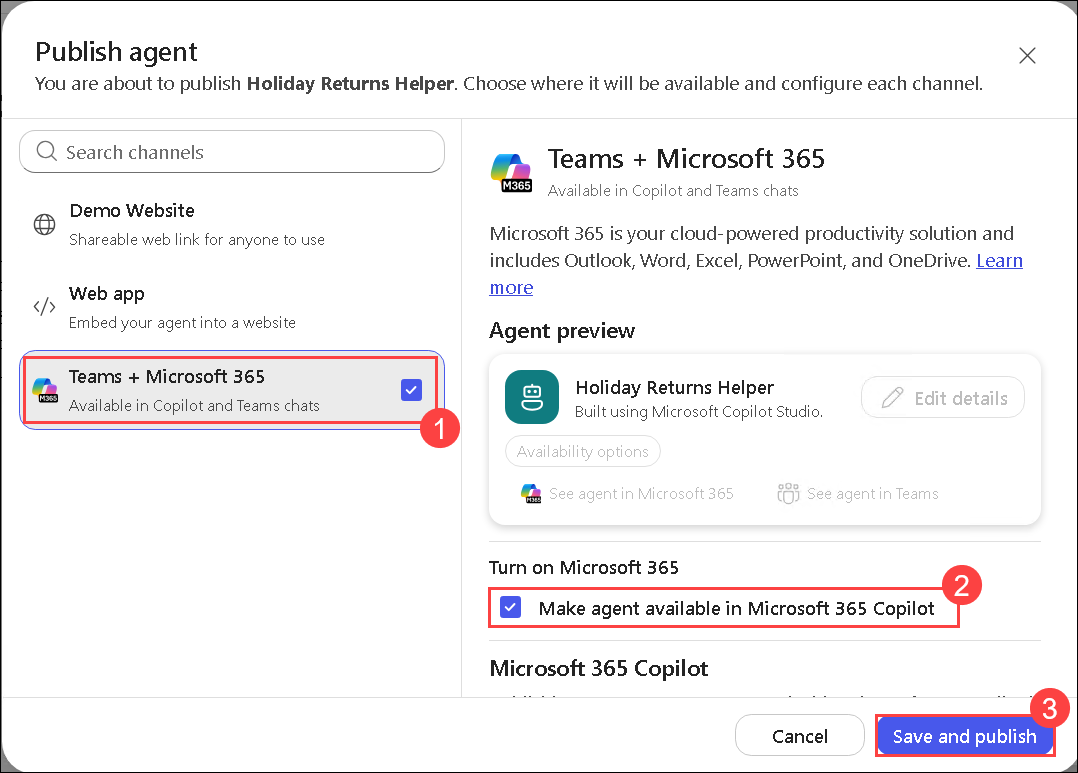
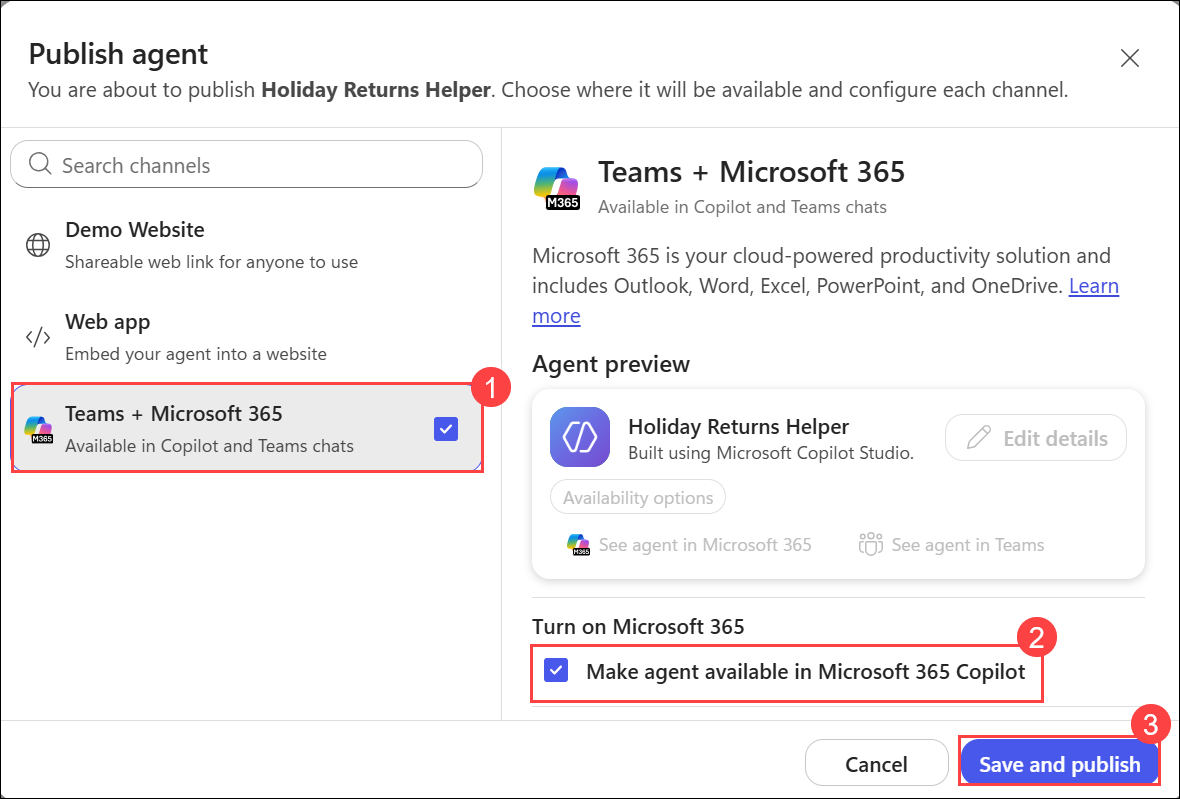
update

diff --git a/Lab Guides/Day-2/Lab 9/lab7.md b/Lab Guides/Day-2/Lab 9/lab7.md
@@ -114,7 +114,7 @@ Finance department members including Amari Rivera, Quincy Brooks, Miguel Reyes, 
    
     ![](./media/n7.png)
 
-1. Click the **Copilot (1)** icon in the left navigation bar, enter a prompt **(2)**, then click the **Send (3)** button.
+1. Click the **Copilot (1)** icon in the left navigation bar and open a **new chat**, enter a prompt **(2)**, then click the **Send (3)** button.
 
    ```
    Generate a downloadable summary. Review the summary to ensure it includes decisions, next steps, and responsibilities. Ask Copilot to generate a downloadable file for distribution to the meeting participants. Download the document that Copilot generated

diff --git a/Lab Guides/Day-2/Lab 8/lab6.md b/Lab Guides/Day-2/Lab 8/lab6.md
@@ -63,7 +63,7 @@ contextual, work-aware AI into your everyday apps and agents. In this part, you 
 
     ![](./media/n2c.png)
 
-1. Enter the site **name (1)**, for as **ZavaSite-<DID>,**" confirming the **Group email address** and **Site address** auto-populate.
+1. Enter the site **name (1)**, for as **ZavaSite-<inject key="DeploymentID" enableCopy="false"/>,**" confirming the **Group email address** and **Site address** auto-populate.
 
    ![](./media/n7a.png)
 
